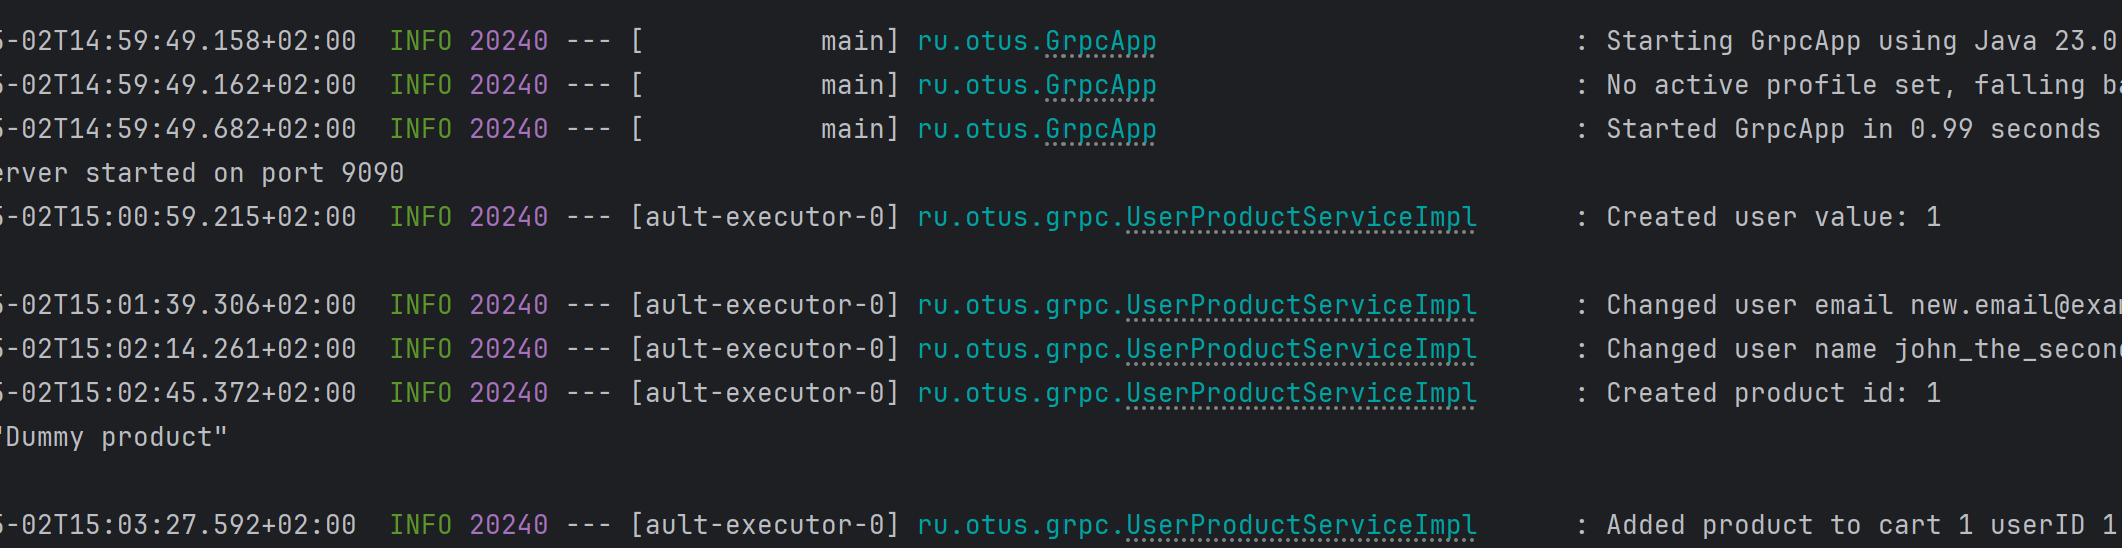
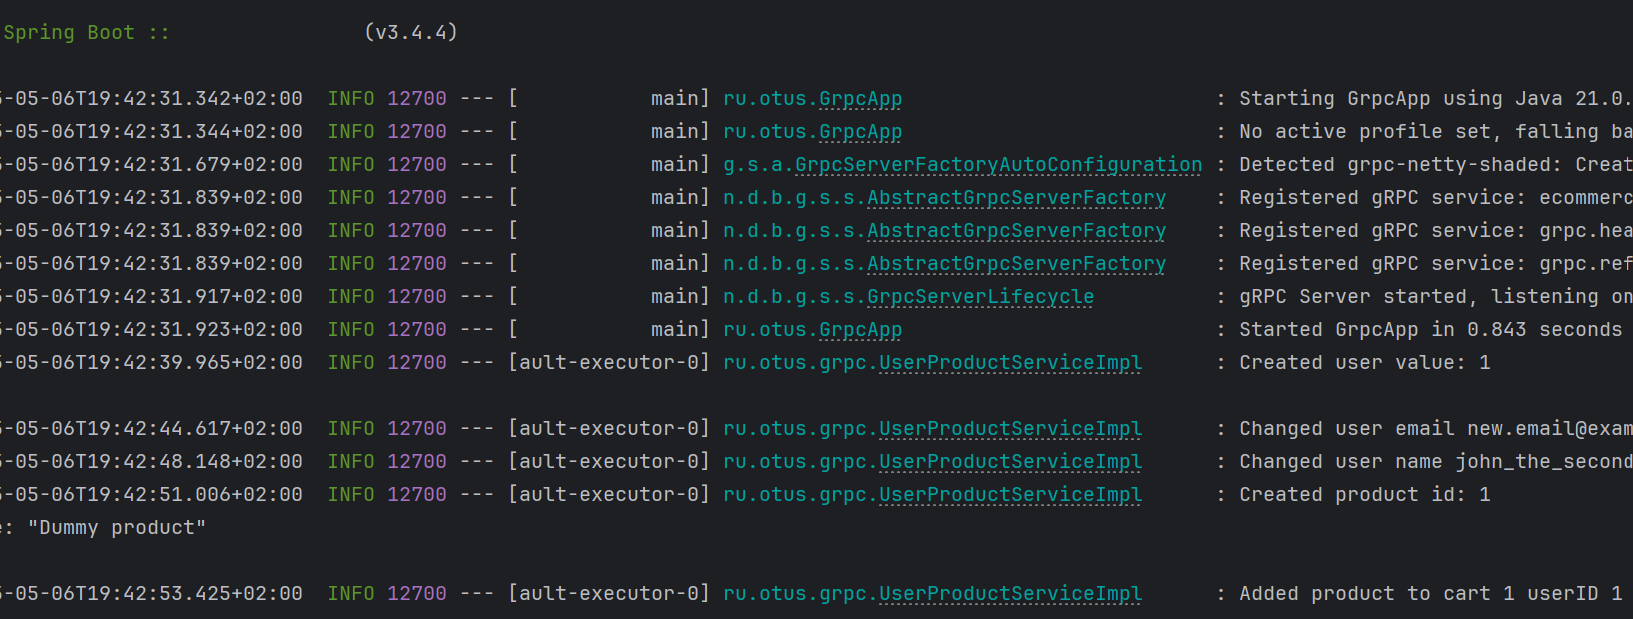
fix code review comments

diff --git a/stebletsov/hw17-gRPC/src/main/java/ru/otus/grpc/UserProductServiceImpl.java b/stebletsov/hw17-gRPC/src/main/java/ru/otus/grpc/UserProductServiceImpl.java
@@ -3,7 +3,7 @@ package ru.otus.grpc;
 import com.google.protobuf.Empty;
 import io.grpc.stub.StreamObserver;
 import lombok.extern.slf4j.Slf4j;
-import org.springframework.stereotype.Service;
+import net.devh.boot.grpc.server.service.GrpcService;
 
 import java.util.ArrayList;
 import java.util.List;
@@ -11,7 +11,7 @@ import java.util.Map;
 import java.util.concurrent.ConcurrentHashMap;
 import java.util.concurrent.atomic.AtomicLong;
 
-@Service
+@GrpcService
 @Slf4j
 public class UserProductServiceImpl extends UserProductServiceGrpc.UserProductServiceImplBase {
 
